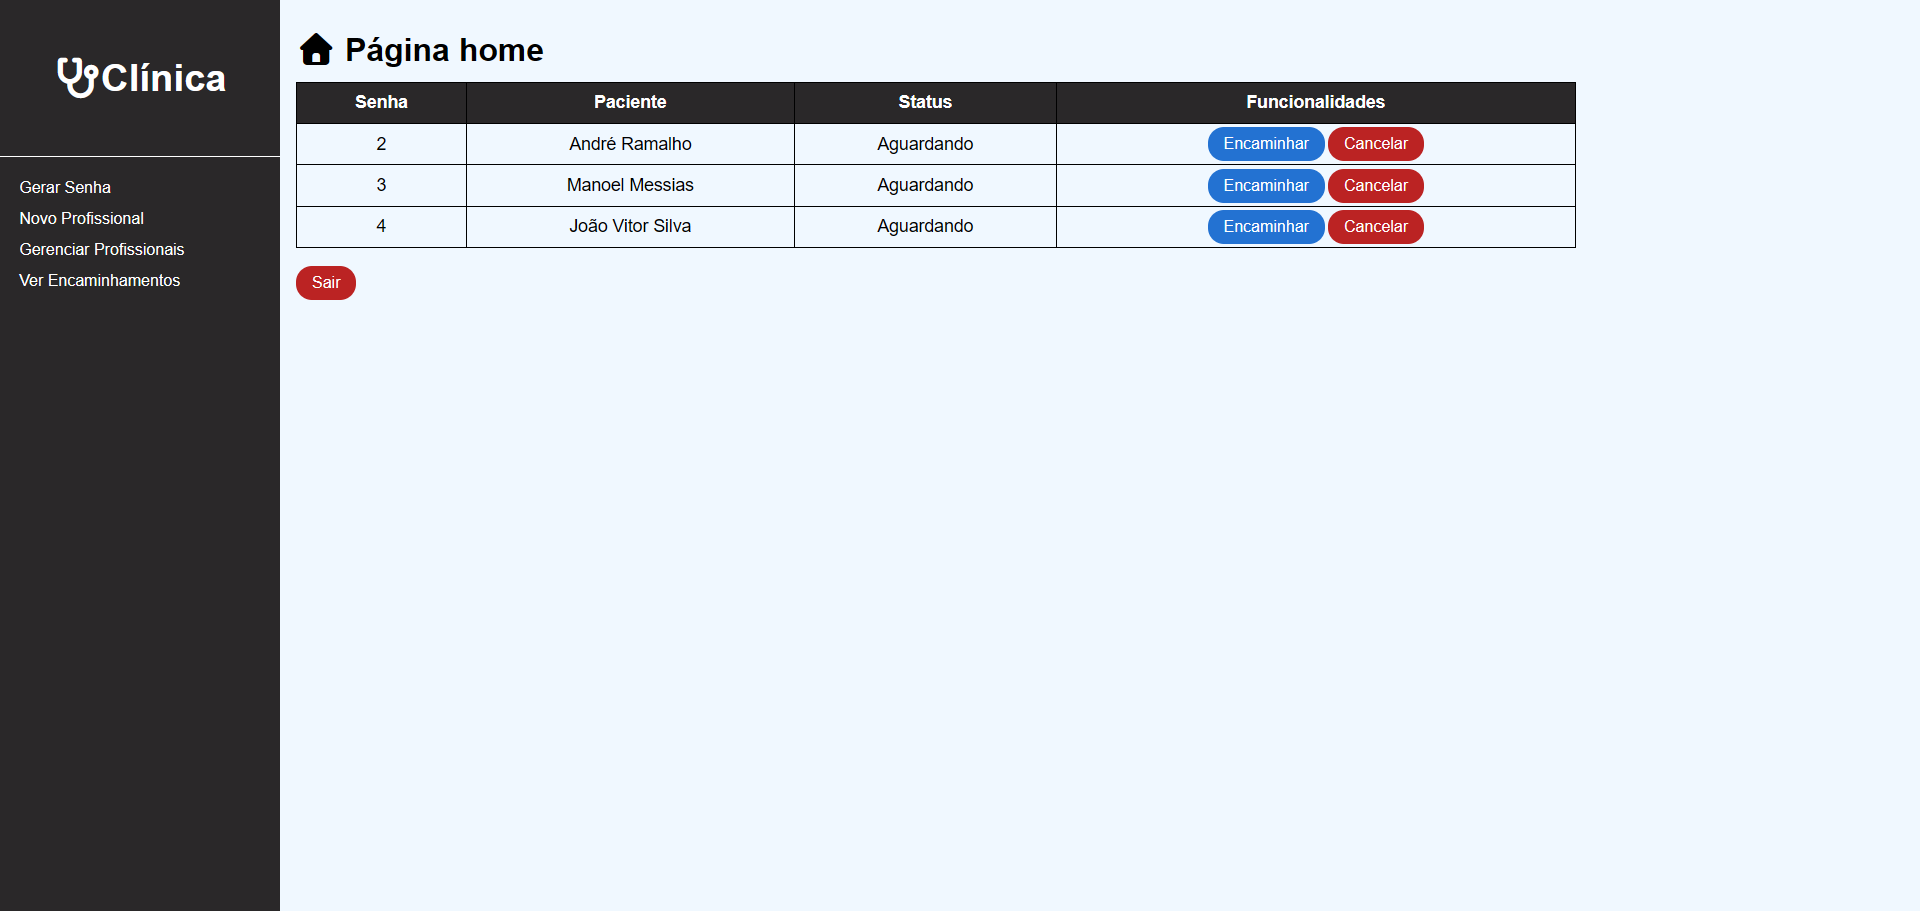
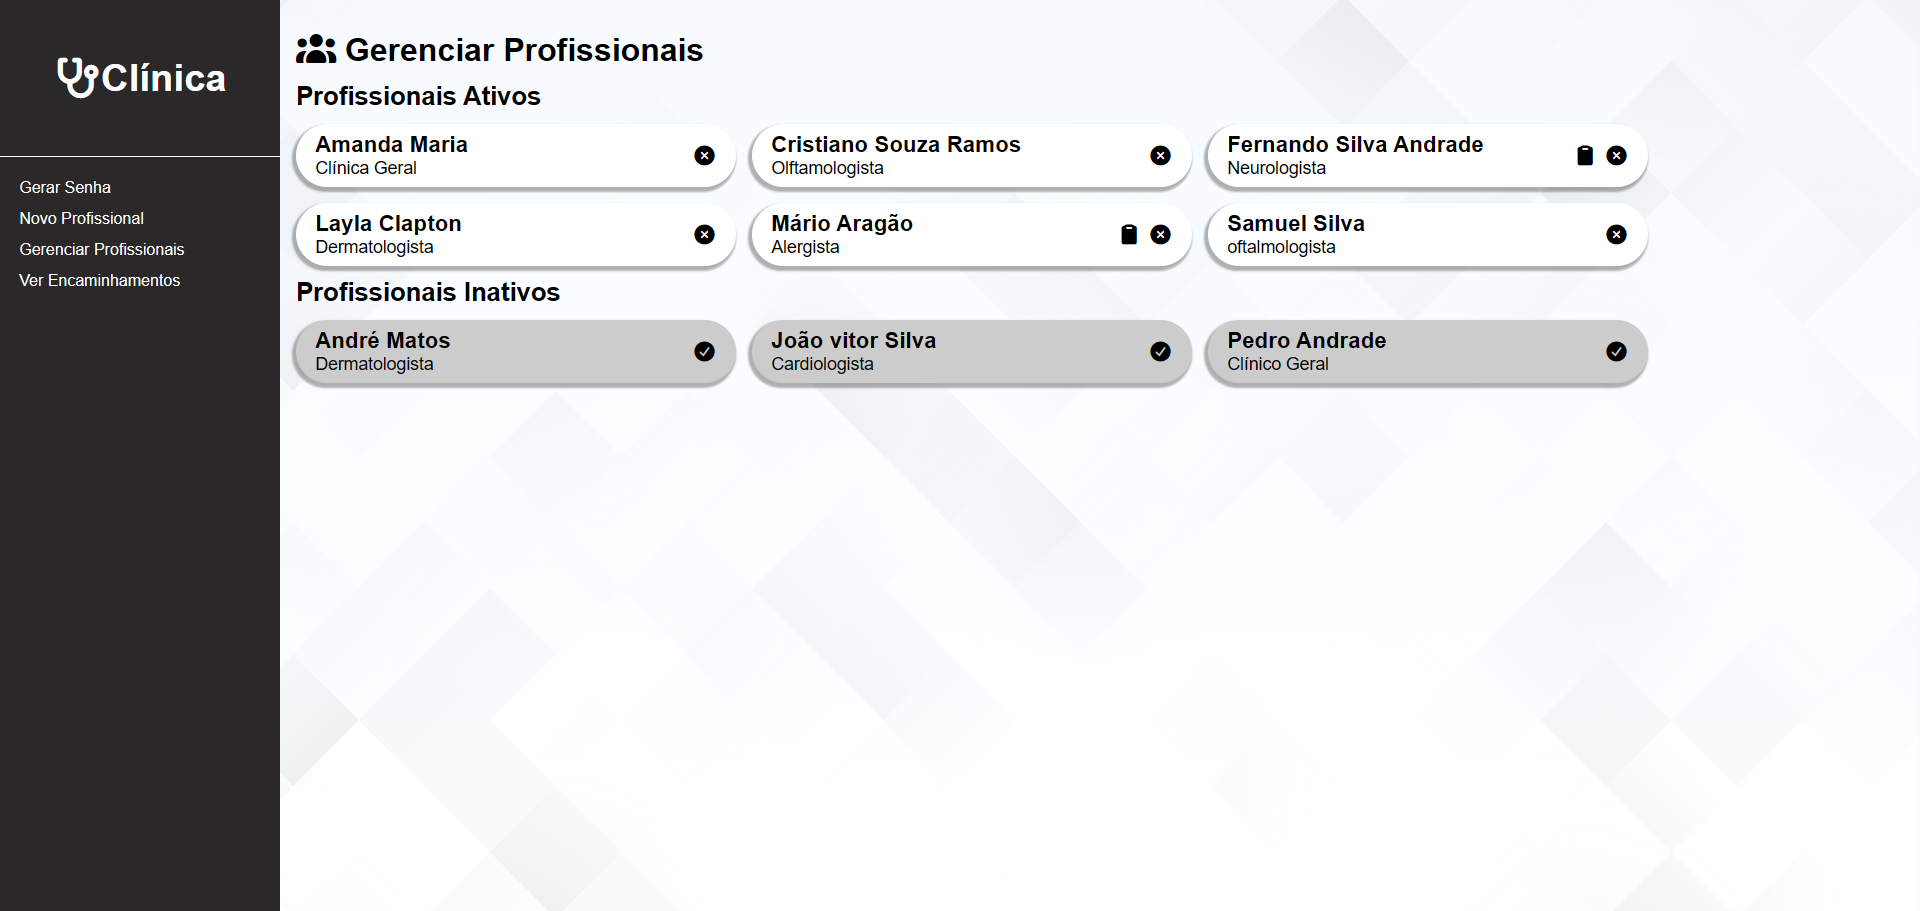
Mudei a foto de apresentação do projeto clinica e o preview no readme

Changed region(s): [[0.125, 0.0307, 0.875, 0.4303]]

diff --git a/README.md b/README.md
@@ -1,6 +1,6 @@
 # Portifólio 📋
 ### O presente repositório foi desenvolvido como uma forma de expor meus projetos pessoais
 
-<img width="1920" height="3502" alt="portfolio" src="https://github.com/user-attachments/assets/2550b1be-2d38-4b31-a792-899823b11a1a" />
+<img width="1920" height="3812" alt="screencapture-127-0-0-1-5500-index-html-2026-08-08-11_38_04" src="https://github.com/user-attachments/assets/53169662-05fe-47c0-839d-65e9caabec5f" />
 
 ### Segue o link para acesso utilizando o github pages: https://pedro-rocha-araujo.github.io/portifolio/
